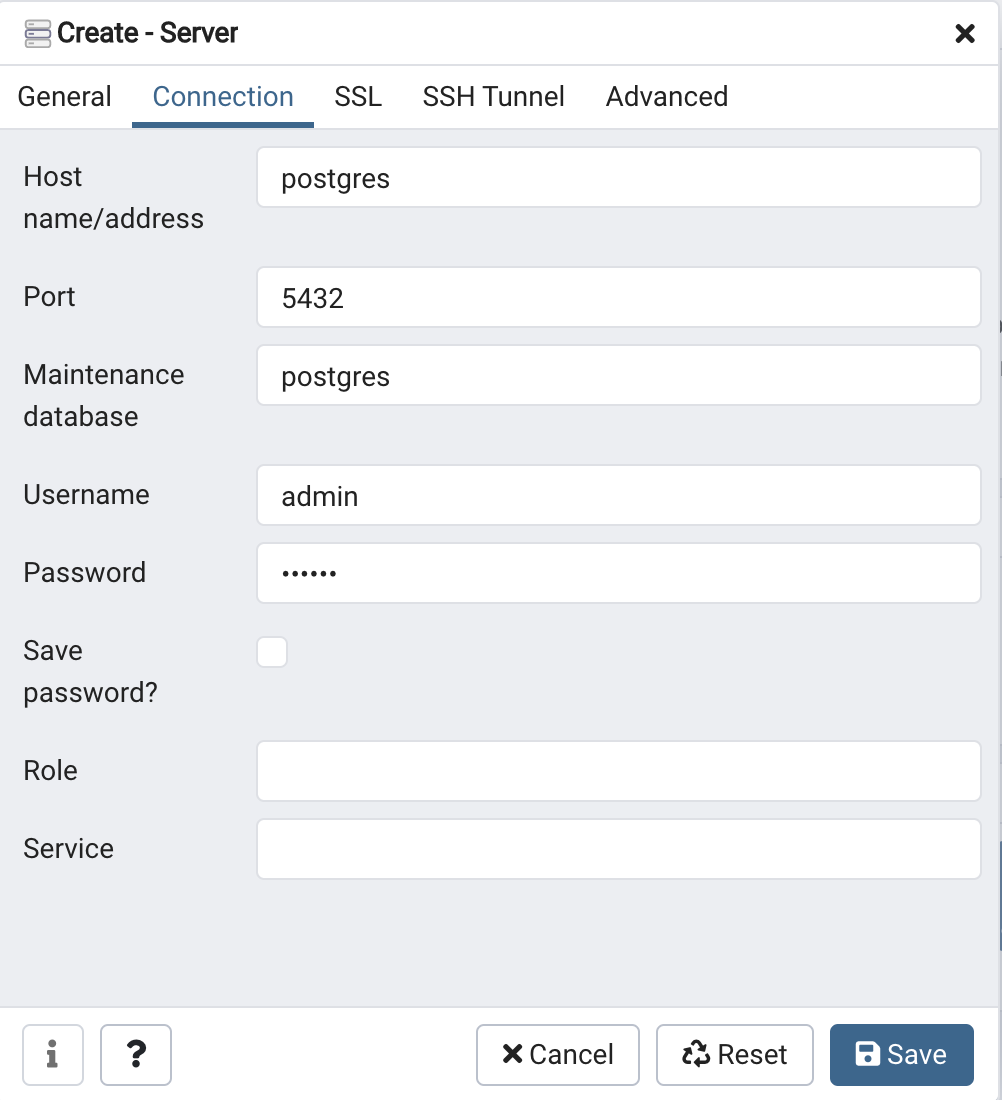
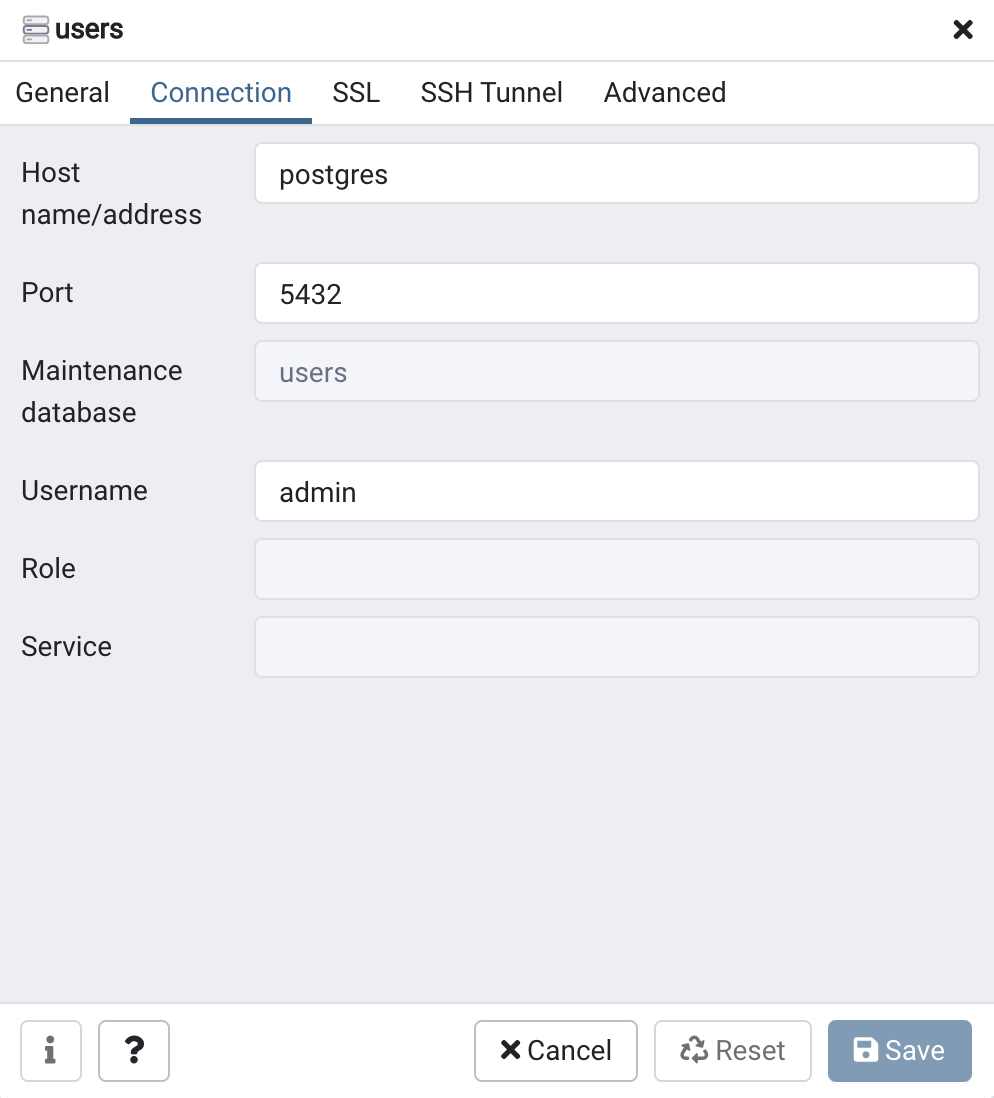
Rename table to USERS

diff --git a/backend/src/config.py b/backend/src/config.py
@@ -9,7 +9,7 @@ class Development(object):
     TESTING = False
     JWT_SECRET_KEY = os.getenv('JWT_SECRET_KEY')
     # SQLALCHEMY_DATABASE_URI = os.getenv('DATABASE_URL')
-    SQLALCHEMY_DATABASE_URI = "postgresql://admin:secret@0.0.0.0:5432/postgres"
+    SQLALCHEMY_DATABASE_URI = "postgresql://admin:secret@0.0.0.0:5432/users"
     SQLALCHEMY_ECHO = True
 
 
